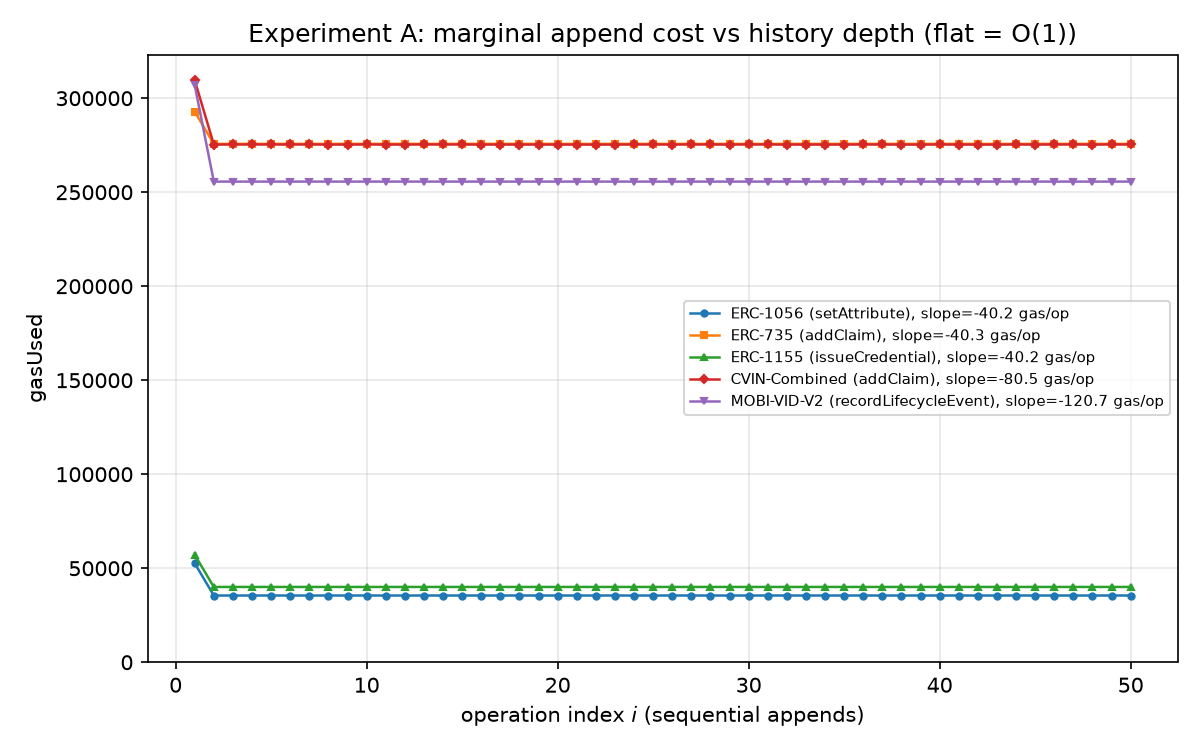
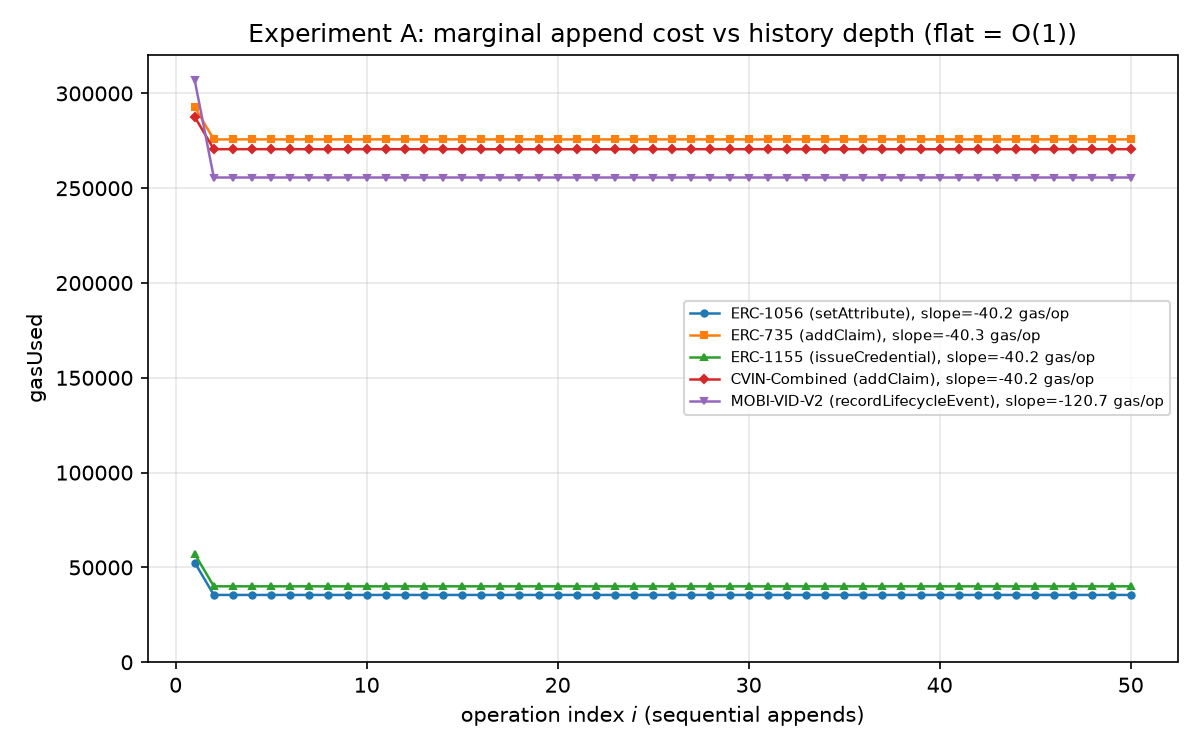
Regenerate scaling experiments A/B after the P2-K contract fixes
CVIN-Combined addClaim marginal slope -80.5 -> -40.2 gas/op (the first
add no longer pays the zero-to-nonzero changed[] SSTORE, K-6), in line
with the other standards; O(1) result unchanged. Lifetime: CVIN-Combined
9,845,068 -> 9,677,232 (-1.7%), ERC-735 11,202,285 -> 11,272,809
(+0.6%). Ranking unchanged; CVIN-Combined is now 169,415 gas below
MOBI-VID-V2 (was 1,579).

diff --git a/4_comparison-framework/results/scaling_marginal.tex b/4_comparison-framework/results/scaling_marginal.tex
@@ -2,7 +2,7 @@
 % Requires \usepackage{booktabs}.
 \begin{table}[htbp]
   \centering
-  \caption{Experiment A --- marginal-cost stationarity. On a fresh deployment of each standard, $K=50$ sequential same-type append-to-history operations were executed with a fixed-size payload and a fixed actor; \texttt{gasUsed} was recorded for every operation index. Columns give the first-operation gas, the $50$\textsuperscript{th}-operation gas, their difference $\Delta$, the exact least-squares slope (gas per operation) and $R^2$ of \texttt{gasUsed} versus index, and whether the marginal cost is constant ($O(1)$). A slightly negative slope is a one-off cold-storage first write (each counter/length slot pays $\approx$\,$17{,}100$ gas once, then is warm) and is amortized away --- cost does not grow with history. Local Hardhat network (chain id 31337), Solidity 0.8.24 (optimizer, 200 runs, via-IR), OpenZeppelin 5.0.2, 2026-10-03.}
+  \caption{Experiment A --- marginal-cost stationarity. On a fresh deployment of each standard, $K=50$ sequential same-type append-to-history operations were executed with a fixed-size payload and a fixed actor; \texttt{gasUsed} was recorded for every operation index. Columns give the first-operation gas, the $50$\textsuperscript{th}-operation gas, their difference $\Delta$, the exact least-squares slope (gas per operation) and $R^2$ of \texttt{gasUsed} versus index, and whether the marginal cost is constant ($O(1)$). A slightly negative slope is a one-off cold-storage first write (each counter/length slot pays $\approx$\,$17{,}100$ gas once, then is warm) and is amortized away --- cost does not grow with history. Local Hardhat network (chain id 31337), Solidity 0.8.24 (optimizer, 200 runs, via-IR), OpenZeppelin 5.0.2, 2026-10-04.}
   \label{tab:scaling-marginal}
   \footnotesize
   \setlength{\tabcolsep}{5pt}
@@ -12,9 +12,9 @@
     Standard & Append op & First-op & $50$th-op & $\Delta$ & Slope (gas/op) & $R^2$ & $O(1)$? \\
     \midrule
     ERC-1056 & \texttt{setAttribute} & 52,594 & 35,494 & -17,100 & -40.24 & 0.0588 & yes \\
-    ERC-735 & \texttt{addClaim} & 292,804 & 275,729 & -17,075 & -40.32 & 0.0591 & yes \\
+    ERC-735 & \texttt{addClaim} & 292,826 & 275,751 & -17,075 & -40.32 & 0.0591 & yes \\
     ERC-1155 & \texttt{issueCredential} & 57,147 & 40,047 & -17,100 & -40.24 & 0.0588 & yes \\
-    CVIN-Combined & \texttt{addClaim} & 309,538 & 275,376 & -34,162 & -80.48 & 0.0589 & yes \\
+    CVIN-Combined & \texttt{addClaim} & 287,642 & 270,580 & -17,062 & -40.24 & 0.0590 & yes \\
     MOBI-VID-V2 & \texttt{recordLifecycleEvent} & 306,941 & 255,641 & -51,300 & -120.71 & 0.0588 & yes \\
     \bottomrule
   \end{tabular}}

diff --git a/4_comparison-framework/results/scaling_lifetime.tex b/4_comparison-framework/results/scaling_lifetime.tex
@@ -2,7 +2,7 @@
 % Requires \usepackage{booktabs}.
 \begin{table}[htbp]
   \centering
-  \caption{Experiment B --- lifetime cost \textbf{model} (an assumption, not a measurement). Total on-chain gas to carry one vehicle identity through the canonical 15-year profile (1 birth, 30 maintenance, 4 inspections, 1 recall, 3 transfers $= 39$ events), decomposed by event class. Birth uses each standard's identity-creation cost and transfers its ownership-transfer cost (\texttt{gas\_benchmark.json}); the recurring maintenance/inspection/recall events use the Experiment~A steady-state append marginal. Rows are ranked by total (cheapest first). The last two columns give the $\pm 50\%$ event-frequency sensitivity band (birth fixed). Gas is relative on-chain work, not fiat. Solidity 0.8.24 (optimizer, 200 runs, via-IR), OpenZeppelin 5.0.2, chain id 31337, 2026-10-03.}
+  \caption{Experiment B --- lifetime cost \textbf{model} (an assumption, not a measurement). Total on-chain gas to carry one vehicle identity through the canonical 15-year profile (1 birth, 30 maintenance, 4 inspections, 1 recall, 3 transfers $= 39$ events), decomposed by event class. Birth uses each standard's identity-creation cost and transfers its ownership-transfer cost (\texttt{gas\_benchmark.json}); the recurring maintenance/inspection/recall events use the Experiment~A steady-state append marginal. Rows are ranked by total (cheapest first). The last two columns give the $\pm 50\%$ event-frequency sensitivity band (birth fixed). Gas is relative on-chain work, not fiat. Solidity 0.8.24 (optimizer, 200 runs, via-IR), OpenZeppelin 5.0.2, chain id 31337, 2026-10-04.}
   \label{tab:scaling-lifetime}
   \footnotesize
   \setlength{\tabcolsep}{5pt}
@@ -13,9 +13,9 @@
     \midrule
     1 & ERC-1056 & 52,594 & 1,242,290 & 155,262 & \textbf{1,450,146} & 751,370 & 2,148,922 \\
     2 & ERC-1155 & 103,913 & 1,401,645 & 251,841 & \textbf{1,757,399} & 930,656 & 2,584,142 \\
-    3 & CVIN-Combined & 52,192 & 9,637,635 & 155,241 & \textbf{9,845,068} & 4,948,630 & 14,741,506 \\
+    3 & CVIN-Combined & 52,216 & 9,469,775 & 155,241 & \textbf{9,677,232} & 4,864,724 & 14,489,740 \\
     4 & MOBI-VID-V2 & 299,143 & 8,947,435 & 600,069 & \textbf{9,846,647} & 5,072,895 & 14,620,399 \\
-    5 & ERC-735 & 1,466,088 & 9,650,025 & 86,172 & \textbf{11,202,285} & 6,334,187 & 16,070,384 \\
+    5 & ERC-735 & 1,535,776 & 9,650,795 & 86,238 & \textbf{11,272,809} & 6,404,293 & 16,141,326 \\
     \bottomrule
   \end{tabular}}
 \end{table}
